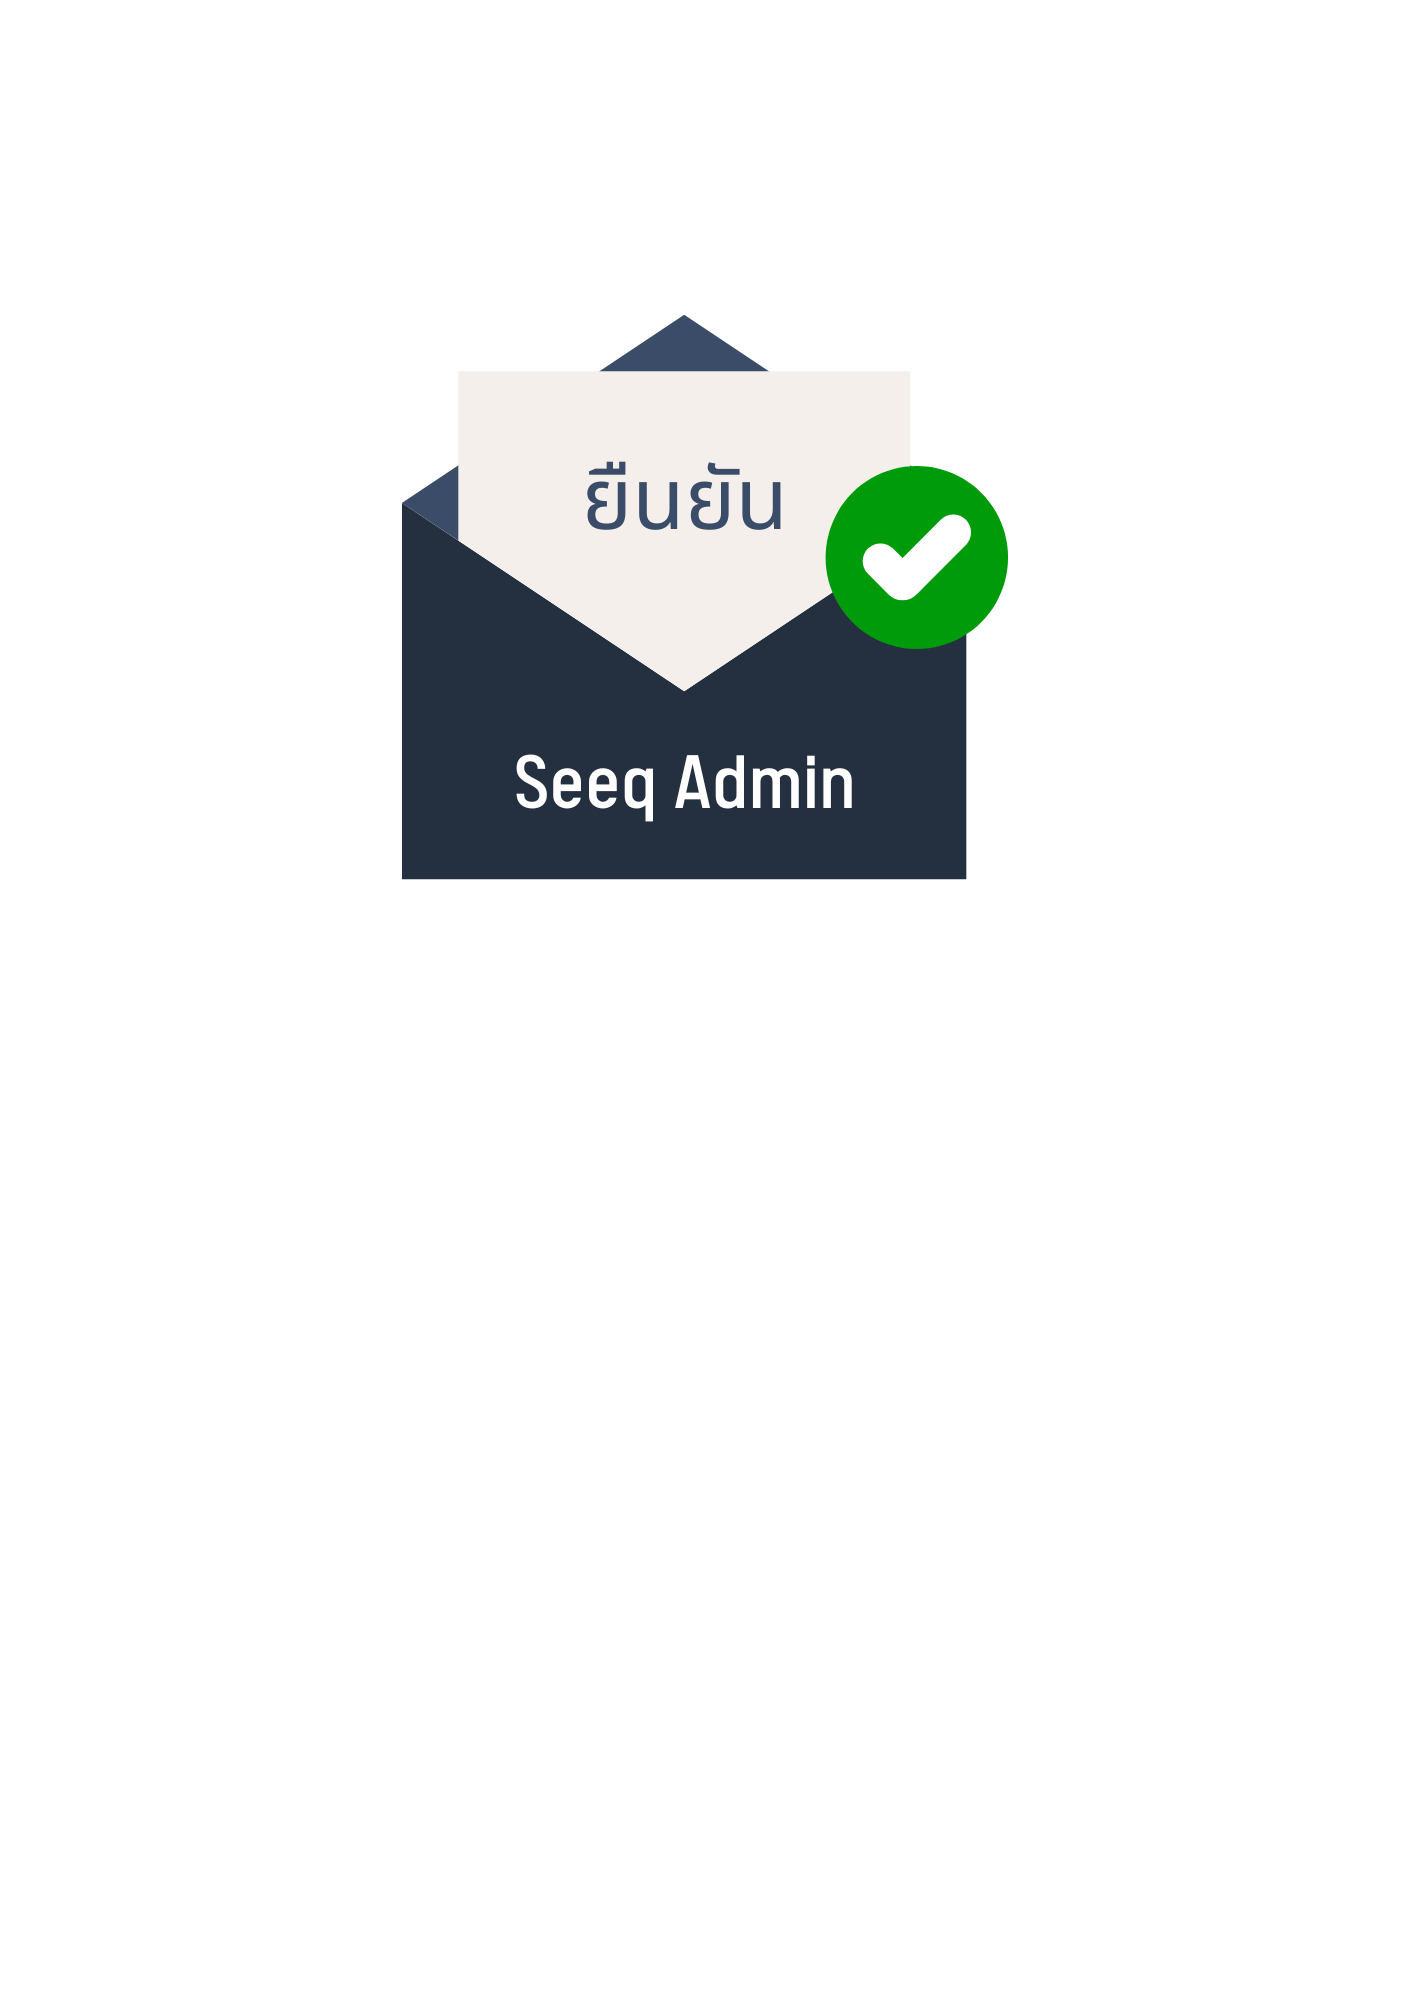
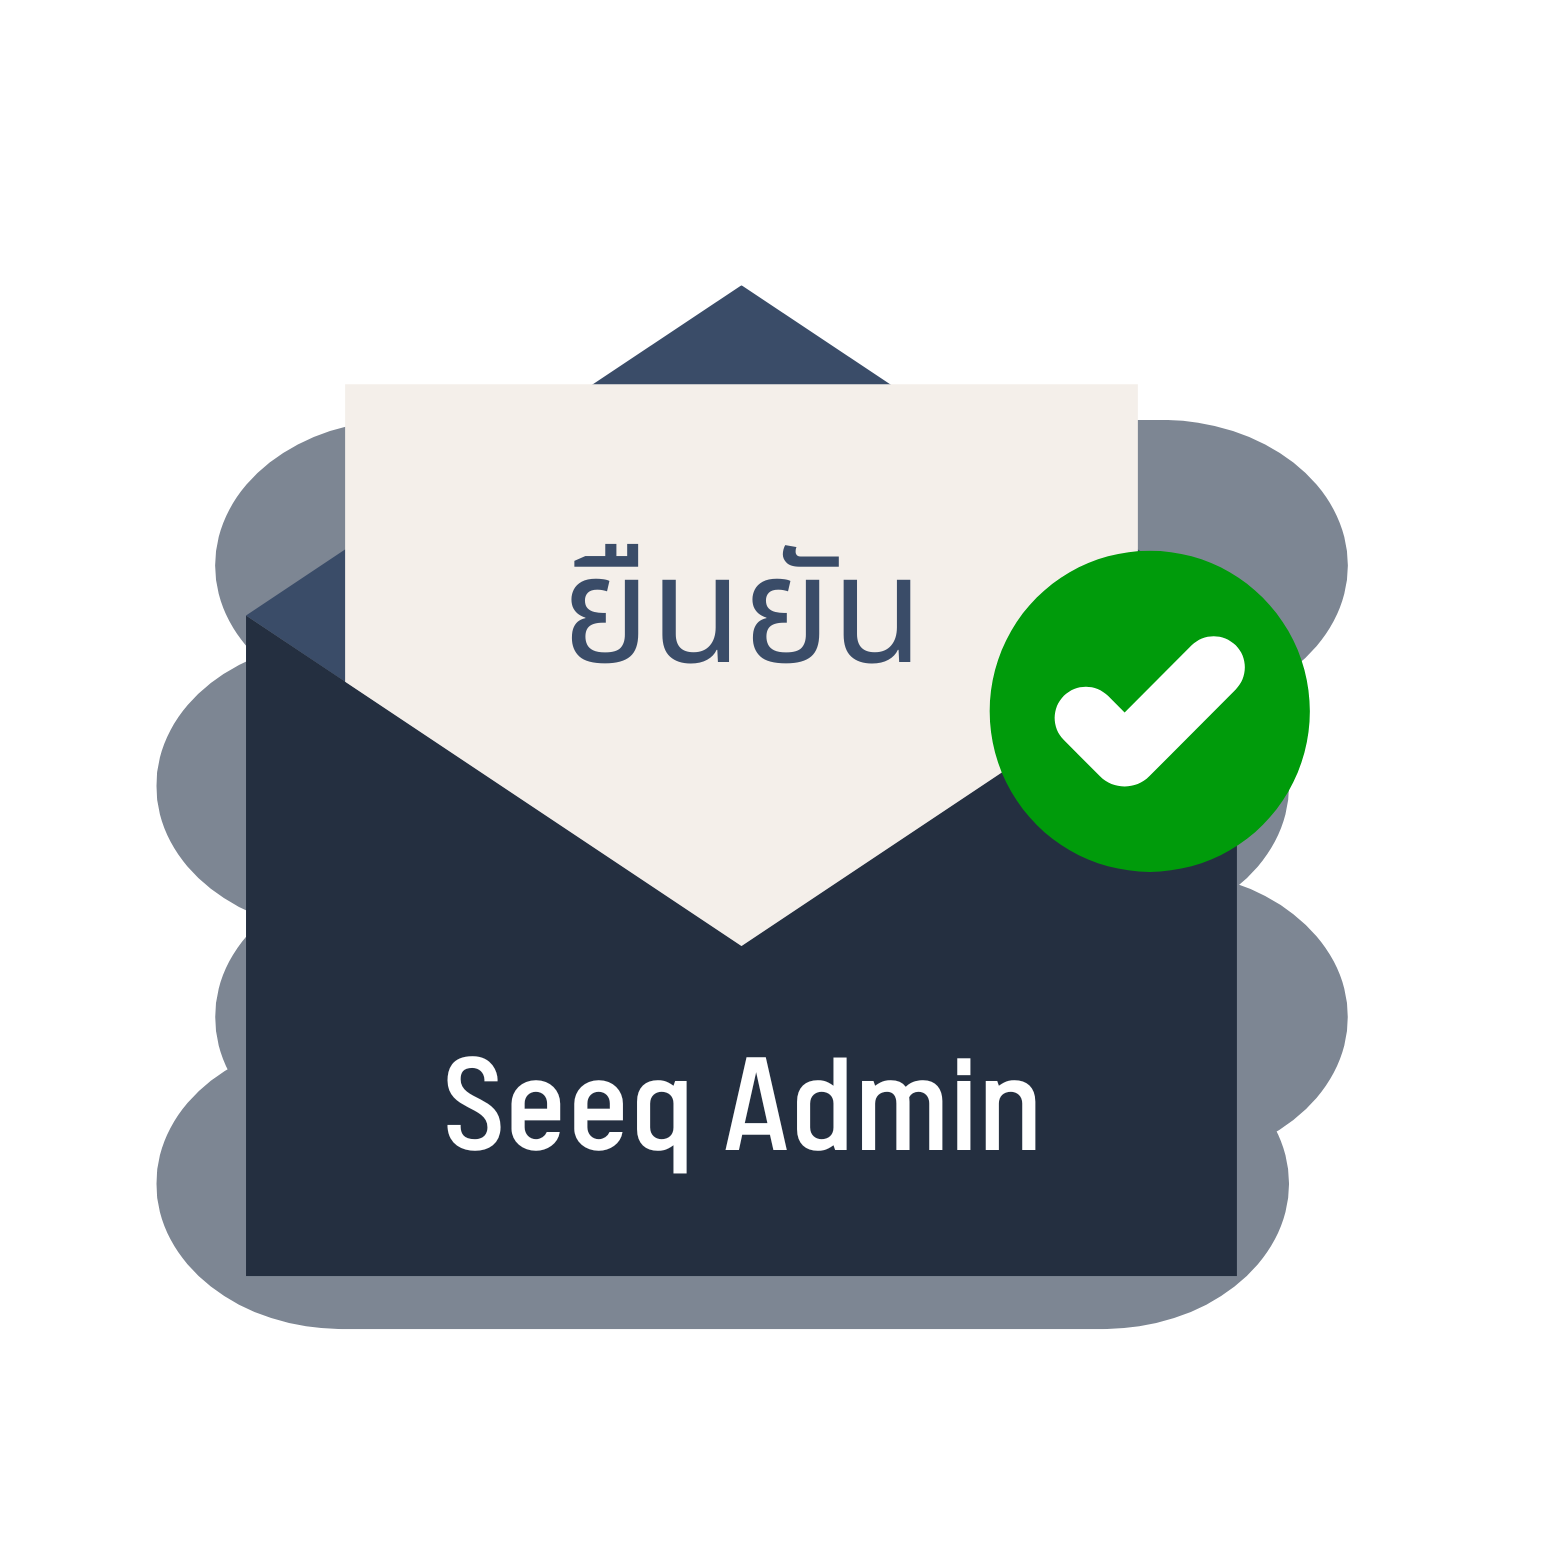
update: image scale in reigster and success register

diff --git a/app/routes/successful-register.tsx b/app/routes/successful-register.tsx
@@ -4,22 +4,26 @@ export default function SuccessfulRegister() {
   const fetcher = useFetcher();
   return (
     <div className="grid grid-cols-1 items-center h-svh bg-white">
-      <img
-        src="/public/successful-register-bg.png"
-        alt="logo"
-        className="w-full h-[50%] object-cover object-[10%_90%] col-start-1 row-start-1"
-      />
-      <div className="flex flex-col justify-center items-center w-full h-svh col-start-1 row-start-1 p-8 gap-6">
-        <p
-          className="text-yellow-500 w-fit text-xm bg-yellow-100 text-center p-1 
-                rounded-md border border-yellow-500"
-        >
-          ระบบได้ทำการส่งอีเมลยืนยันแล้ว
-          กรุณายืนยันอีเมลของท่านเพื่อใช้ในการเข้าสู่ระบบ
-        </p>
-        <Link to="/login" prefetch="viewport" className="text-white text-xl bg-primary-dark w-fit p-4 rounded-md">
-          ตกลง
-        </Link>
+      <div className="flex flex-col justify-center items-center w-svw h-svh col-start-1 row-start-1">
+        <img
+          src="/public/successful-register-bg.png"
+          alt="logo"
+          className="h-72 w-auto"
+        />
+      </div> 
+      <div className="flex flex-col justify-center items-center w-svw h-svh col-start-1 row-start-1">
+        <div className="flex flex-col justify-center items-center gap-6 mt-96 p-8">
+          <p
+            className="text-green-500 w-fit text-xm bg-green-100 text-center p-1 
+                  rounded-md border border-green-500"
+          >
+            ระบบได้ทำการส่งอีเมลยืนยันแล้ว
+            กรุณายืนยันอีเมลของท่านเพื่อใช้ในการเข้าสู่ระบบ
+          </p>
+          <Link to="/login" prefetch="viewport" className="text-white text-center text-xl bg-primary-dark w-full p-4 rounded-md">
+            ตกลง
+          </Link>
+        </div>
       </div>
     </div>
   );

diff --git a/app/routes/register.tsx b/app/routes/register.tsx
@@ -75,24 +75,27 @@ function validateInput(formData : FormData) {
 
 export default function Register() {
   return (
-    <div className="grid grid-cols-1 items-center content-end h-svh">
-      <div className="flex flex-col justify-start w-full h-svh col-start-1 row-start-1">
+    <div className="h-screen flex flex-col justify-end bg-primary-dark-50">
+      <div className="flex items-center justify-center absolute top-[-70px] w-full h-1/2">
         <img
-          src="/public/register-bg.png"
+          src="/public/register-logo.png"
           alt="logo"
-          className="w-full h-[50%] object-cover object-[100%_0%]"
+          className="h-60 w-auto"
         />
       </div>
-      <div className="flex flex-col justify-end w-full h-svh col-start-1 row-start-1">
-        <div className="mb-[55svh] h-[20svh] bg-gray-100 rounded-t-[40px] col-start-1 row-start-1">
-          <p className="text-primary-dark text-3xl text-center pt-6">
-            สมัครสมาชิก
+
+      <div className="grid grid-cols-1 justify-center items-center z-50">
+        <div className="h-full col-start-1 row-start-1 bg-gray-100 rounded-t-[40px]">
+          <p className="mt-4 text-center text-3xl">
+          ลงทะเบียน
           </p>
         </div>
-      </div>
-
-      <div className="flex flex-col justify-end h-svh bg-transparent col-start-1 row-start-1">
-        <FetcherForm />
+        <div className="col-start-1 row-start-1">
+          <div className="mt-16">
+            <FetcherForm />
+          </div>
+          
+        </div>
       </div>
     </div>
   );
@@ -104,7 +107,7 @@ function FetcherForm() {
   return (
     <fetcher.Form
       method="POST"
-      className="flex flex-col bg-white border h-[65svh] min-h-fit w-svw shadow-lg shadow-black/80 rounded-t-[40px]"
+      className="flex flex-col bg-white border w-svw shadow-lg shadow-black/80 rounded-t-[40px]"
     >
       <div
         className="flex flex-col items-center justify-center h-full w-full p-16 pt-8 pb-8
